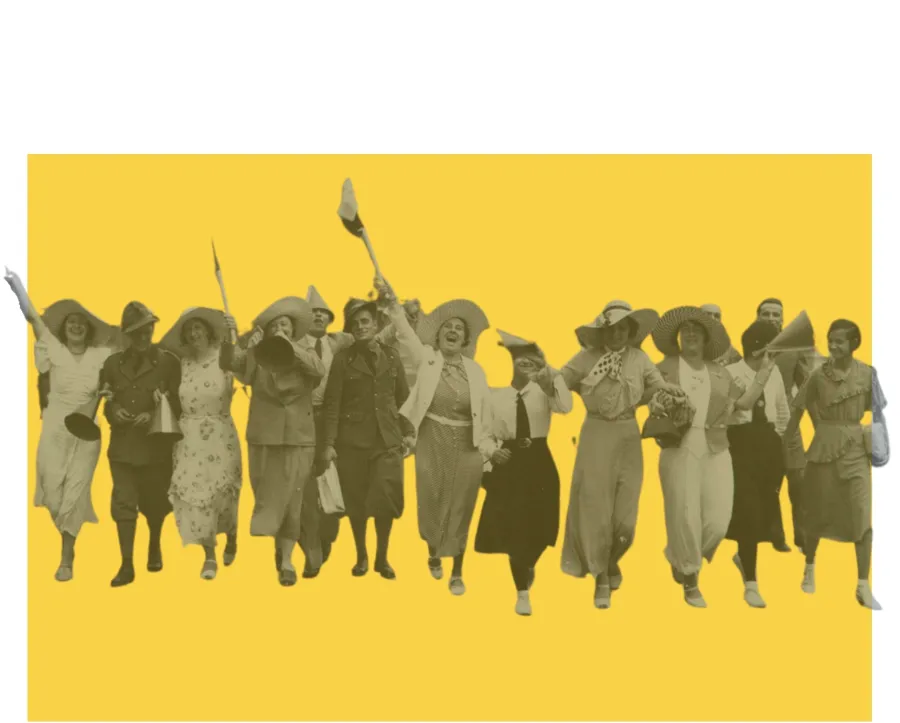
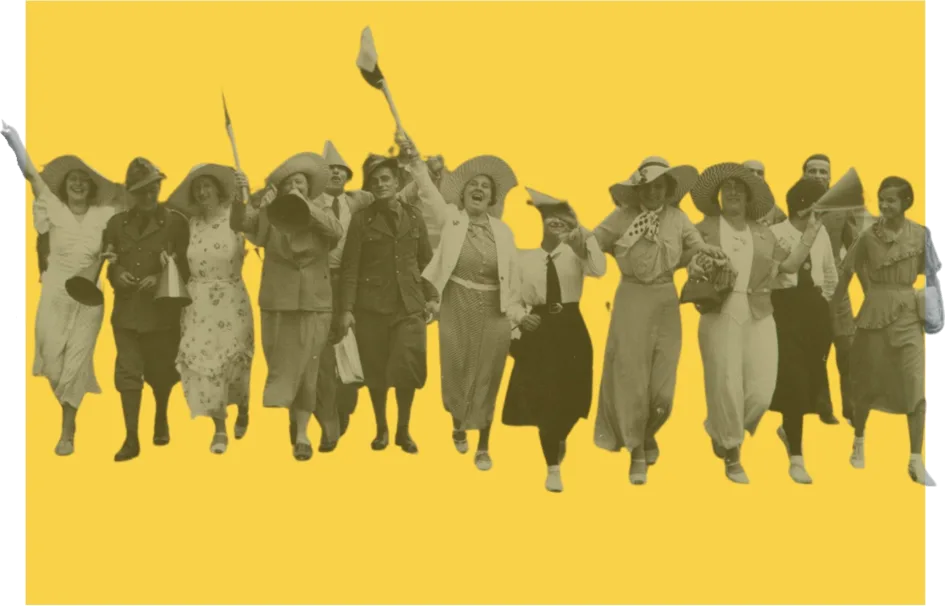
Tiles: crop white borders, equal 3:2 format, collaborations figures overflow the yellow block as in the PDF

diff --git a/_design-test.html b/_design-test.html
@@ -79,6 +79,15 @@
       <p class="t-body" style="margin-top:1.5rem;max-width:60ch">Unsere Großmütter brauchten eine Unterschrift, um ein eigenes Konto zu eröffnen. Wir sind die zweite Generation, die ihr Geld selbst verwalten darf.</p>
     </section>
 
+    <section class="block container--wide" style="padding-inline:0">
+      <p class="t-label-sm">Kacheln (PDF Seite 3): gleiche Größe, kein weißer Rand, Figuren der Kollaborationen ragen wie im PDF über das Gelb hinaus</p>
+      <div style="display:grid;grid-template-columns:repeat(3,1fr);gap:48px;margin-top:1.5rem">
+        <div style="aspect-ratio:1769/1187"><img src="img/kachel-your-money-moves.webp" alt="" style="width:100%;height:100%;object-fit:cover" /></div>
+        <div style="aspect-ratio:1769/1187;position:relative"><img src="img/kachel-kollaborationen.webp" alt="" style="position:absolute;left:-2.886%;top:-0.084%;width:105.093%;max-width:none" /></div>
+        <div style="aspect-ratio:1769/1187"><img src="img/kachel-boutique.webp" alt="" style="width:100%;height:100%;object-fit:cover" /></div>
+      </div>
+    </section>
+
     <section class="block">
       <p class="t-label-sm">Optimierte Bilder (img/*.webp)</p>
       <div class="grid" style="margin-top:1.5rem;grid-template-columns:repeat(4,1fr)">
